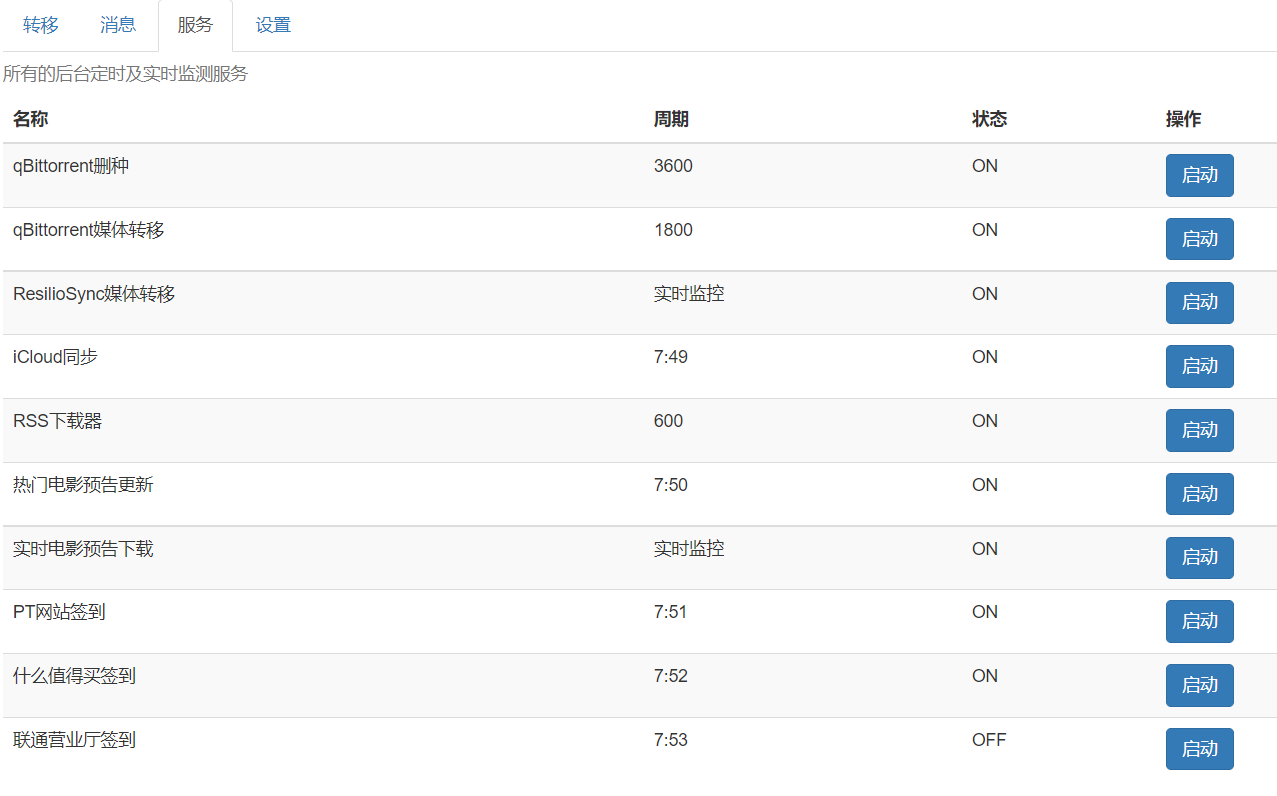
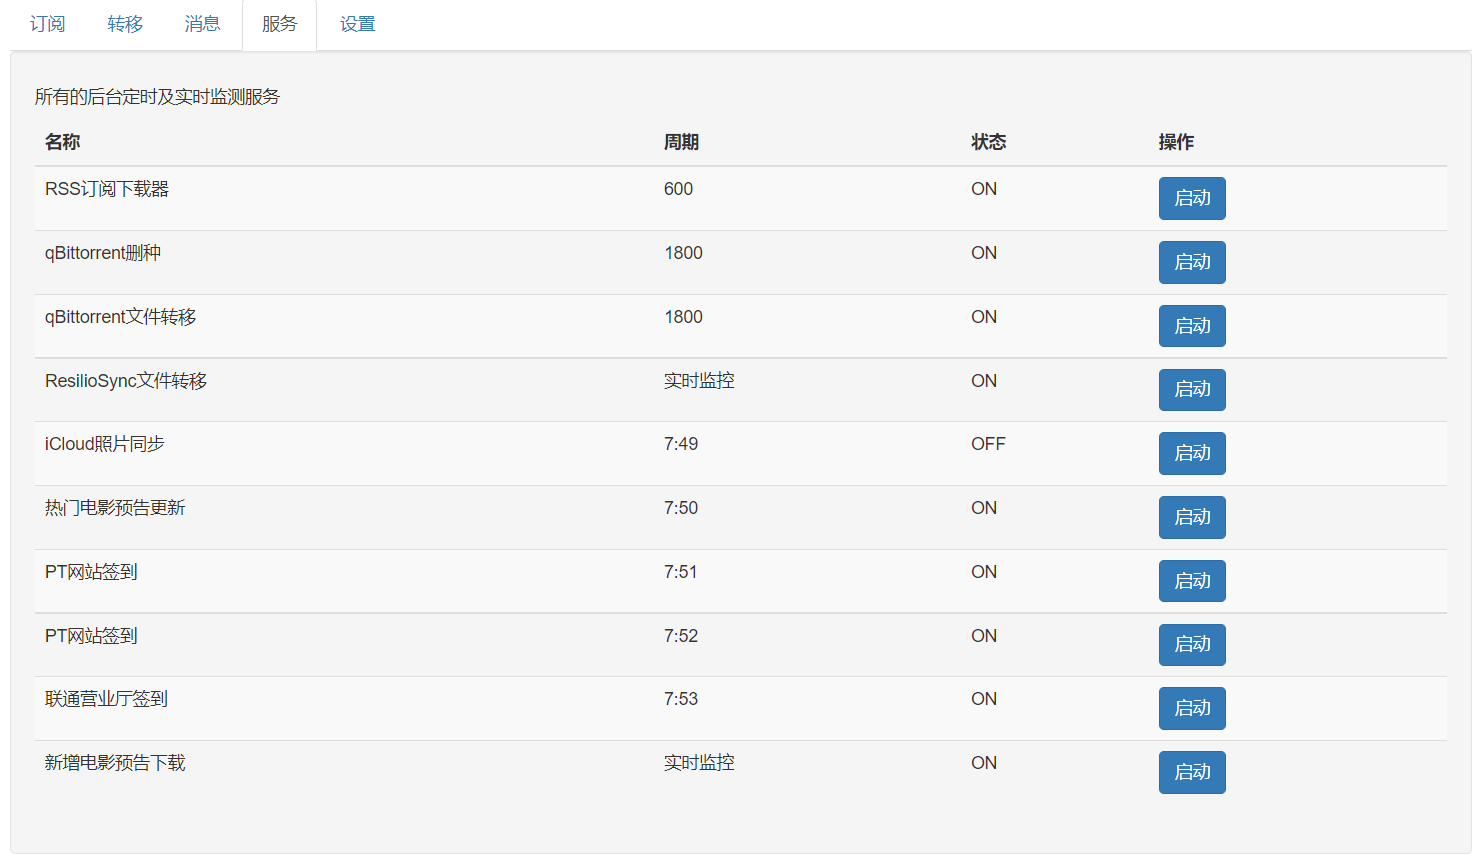
bug fix

diff --git a/web/templates/main.html b/web/templates/main.html
@@ -23,6 +23,7 @@
 			<div class="span4">
 				<div class="tabbable">
 					<ul class="nav nav-tabs">
+						<li {% if page=="rss" %} class="active" {% endif %}><a id="rss_tab" href="#rss" data-toggle="tab">订阅</a></li>
 						<li {% if page=="rmt" %} class="active" {% endif %}><a id="rmt_tab" href="#rmt" data-toggle="tab">转移</a></li>
 						<li {% if page=="msg" %} class="active" {% endif %}><a id="msg_tab" href="#msg" data-toggle="tab">消息</a></li>
 						<li {% if page=="sch" %} class="active" {% endif %}><a id="sch_tab" href="#sch" data-toggle="tab">服务</a></li>
@@ -34,7 +35,7 @@
 					<div class="tab-content">
 						<div class="tab-pane {% if page=='rmt' %} active {% endif %}" id="rmt">
 							<form role="form" action="/do" method="post" id="rmt_form" class="well">
-							  <h4>转移qBittorrent下载完成的文件到媒体库</h4>
+							  <h5>自动转移识别失败时，指定媒体信息，手动转移qBittorrent下载完成的文件到媒体库</h5>
 							  <div class="form-group">
 								<label for="rmt_name">标题</label>
 								<input type="text" class="form-control" id="rmt_name" name="rmt_name" placeholder="" value="">
@@ -66,9 +67,42 @@
 							</form>
 							<pre id="rmt_ret" style="display:none"></pre>
 						</div>
+						<div class="tab-pane {% if page=='rss' %} active {% endif %}" id="rss">
+							<form role="form" action="/do" method="post" id="rss_form" class="form-horizontal">
+							  <h5>配置PT站RSS订阅源过滤关键字，自动下载命中关键字的资源，注意要符合数组格式</h5>
+								{% for rss_cfg in rss_cfg_list %}
+								<fieldset>
+									<legend>{{ rss_cfg.job }}</legend>
+								   <div class="form-group">
+									  <label class="col-sm-2 control-label" for="rss_url@{{ rss_cfg.job }}">RSS URL</label>
+									  <div class="col-sm-4">
+										 <input class="form-control" id="rss_url@{{ rss_cfg.job }}" name="rss_url" type="text" placeholder="" value="{{ rss_cfg.url }}"/>
+									  </div>
+									  <label class="col-sm-2 control-label" for="rss_movie_type@{{ rss_cfg.job }}">电影分类名</label>
+									  <div class="col-sm-4">
+										 <input class="form-control" id="rss_movie_type@{{ rss_cfg.job }}" name="movie_type" type="text" placeholder="" value="{{ rss_cfg.movie_type }}"/>
+									  </div>
+								   </div>
+								   <div class="form-group">
+									  <label class="col-sm-2 control-label" for="rss_movie_re@{{ rss_cfg.job }}">电影关键字</label>
+									  <div class="col-sm-4">
+										 <input class="form-control" id="rss_movie_re@{{ rss_cfg.job }}" name="movie_re" type="text" placeholder="" value="{{ rss_cfg.movie_re }}"/>
+									  </div>
+									  <label class="col-sm-2 control-label" for="rss_tv_re@{{ rss_cfg.job }}">电视剧关键字</label>
+									  <div class="col-sm-4">
+										 <input class="form-control" id="rss_tv_re@{{ rss_cfg.job }}" name="tv_re" type="text" placeholder="" value="{{ rss_cfg.tv_re }}"/>
+									  </div>
+								   </div>
+								</fieldset>
+  								{% endfor %}
+							  <div style="text-align:center"><button id="rss_btn" type="button" class="btn btn-primary">保存</button></div>
+							</form>
+							<br/>
+							<br/>
+						</div>
 						<div class="tab-pane {% if page=='msg' %} active {% endif %}" id="msg">
 							<form role="form" action="/do" method="post" id="msg_form" class="well">
-							  <h4>消息发送工具</h4>
+							  <h5>消息发送工具</h5>
 							  <div class="form-group">
 								<label for="msg_title">消息标题</label>
 								<input type="text" class="form-control" id="msg_title" name="msg_title" placeholder="必填，最长100字节" value="">
@@ -84,7 +118,7 @@
 						</div>
 						<div class="tab-pane {% if page=='set' %} active {% endif %}" id="set">
 							<form role="form" action="/do" method="post" id="set_form" class="well">
-								<h4>配置文件</h4>
+								<h5>配置文件，可直接修改保存</h5>
 								<div class="form-group">
 									<div id="editor"></div>
 								</div>
@@ -92,8 +126,9 @@
 							</form>
 						</div>
 						<div class="tab-pane {% if page=='sch' %} active {% endif %}" id="sch">
+							<form role="form" action="" method="post" id="svr_form" class="well">
+							<h5>所有的后台定时及实时监测服务</h5>
 							<table class="table table-striped">
-							  <caption>所有的后台定时及实时监测服务</caption>
 							  <thead>
 								<tr>
 								  	<th>名称</th>
@@ -103,69 +138,18 @@
 								</tr>
 							  </thead>
 							  <tbody>
+							  {% for scheduler_cfg in scheduler_cfg_list %}
 								<tr>
-								  	<td>qBittorrent删种</td>
-								  	<td>{{ tim_autoremovetorrents }}</td>
-									<td>{{ sta_autoremovetorrents }}</td>
+								  	<td>{{ scheduler_cfg.name }}</td>
+								  	<td>{{ scheduler_cfg.time }}</td>
+									<td>{{ scheduler_cfg.state }}</td>
 								  	<td><button id="sch_btn_autoremovetorrents" type="button" class="sch_action_btn btn btn-primary">启动</button></td>
 								</tr>
-								<tr>
-								  	<td>qBittorrent媒体转移</td>
-								  	<td>{{ tim_qbtransfer }}</td>
-									<td>{{ sta_qbtransfer }}</td>
-								  	<td><button id="sch_btn_qbtransfer" type="button" class="sch_action_btn btn btn-primary">启动</button></td>
-								</tr>
-							  	<tr>
-								  	<td>ResilioSync媒体转移</td>
-								  	<td>实时监控</td>
-									<td>{{ sta_resiliosync }}</td>
-								  	<td><button id="sch_btn_resiliosync" type="button" class="sch_action_btn btn btn-primary">启动</button></td>
-								</tr>
-								<tr>
-								  	<td>iCloud同步</td>
-								  	<td>{{ tim_icloudpd }}</td>
-									<td>{{ sta_icloudpd }}</td>
-								  	<td><button id="sch_btn_icloudpd" type="button" class="sch_action_btn btn btn-primary">启动</button></td>
-								</tr>
-								<tr>
-								  	<td>RSS下载器</td>
-								  	<td>{{ tim_rssdownload }}</td>
-									<td>{{ sta_rssdownload }}</td>
-								  	<td><button id="sch_btn_rssdownload" type="button" class="sch_action_btn btn btn-primary">启动</button></td>
-								</tr>
-							  	<tr>
-								  	<td>热门电影预告更新</td>
-								  	<td>{{ tim_hottrailers }}</td>
-									<td>{{ sta_hottrailers }}</td>
-								  	<td><button id="sch_btn_hottrailers" type="button" class="sch_action_btn btn btn-primary">启动</button></td>
-								</tr>
-								<tr>
-								  	<td>实时电影预告下载</td>
-								  	<td>实时监控</td>
-									<td>{{ sta_movietrailer }}</td>
-								  	<td><button id="sch_btn_movietrailer" type="button" class="sch_action_btn btn btn-primary">启动</button></td>
-								</tr>
-							  	<tr>
-								  	<td>PT网站签到</td>
-								  	<td>{{ tim_ptsignin }}</td>
-									<td>{{ sta_ptsignin }}</td>
-								  	<td><button id="sch_btn_ptsignin" type="button" class="sch_action_btn btn btn-primary">启动</button></td>
-								</tr>
-							  	<tr>
-								 	<td>什么值得买签到</td>
-								 	<td>{{ tim_smzdmsignin }}</td>
-									<td>{{ sta_smzdmsignin }}</td>
-								 	<td><button id="sch_btn_smzdmsignin" type="button" class="sch_action_btn btn btn-primary">启动</button></td>
-								</tr>
-							  	<tr>
-								  	<td>联通营业厅签到</td>
-								  	<td>{{ tim_unicomsignin }}</td>
-									<td>{{ sta_unicomsignin }}</td>
-								  	<td><button id="sch_btn_unicomsignin" type="button" class="sch_action_btn btn btn-primary">启动</button></td>
-								</tr>
+							  {% endfor %}
 							  </tbody>
 							</table>
 							<pre id="sch_ret" style="display:none"></pre>
+							</form>
 						</div>
 						<div class="tab-pane {% if page=='log' %} active {% endif %}" id="log">
 							<table id="log_table" class="table table-striped">

diff --git a/web/static/js/util.js b/web/static/js/util.js
@@ -109,12 +109,29 @@ $(document).ready(function(){
 	    $("#msg_btn").text("正在处理...");
 	    $("#msg_btn").attr("disabled", "true");
 	    ajax_post(cmd, data, function(ret){
-	        msg_code = ret.msg_code;
 	        msg_msg = ret.msg_msg;
 	        $("#msg_ret").show();
-	        $("#msg_ret").text("{\"msg_code\": " + msg_code + ", \"msg_msg\": " + msg_msg + "}");
+	        $("#msg_ret").text(msg_msg);
 	        $("#msg_btn").removeAttr("disabled");
 	        $("#msg_btn").text("发送");
+	    });
+	});
+
+	// 保存RSS按钮
+	$("#rss_btn").click(function(){
+	    var cmd = "rss";
+	    var job_str = ""
+	    var data = {
+                "job": job_str,
+                ""
+	        };
+	    $("#rss_btn").text("正在处理...");
+	    $("#rss_btn").attr("disabled", "true");
+	    ajax_post(cmd, data, function(ret){
+	        $("#form_rss_form_notice").show();
+	        $("#form_rss_form_notice").text(ret.msg_msg);
+	        $("#rss_btn").removeAttr("disabled");
+	        $("#rss_btn").text("保存");
 	    });
 	});
 

diff --git a/web/main.py b/web/main.py
@@ -81,49 +81,62 @@ def create_app():
     @auth.login_required
     def main():
         # 读取定时服务配置
-        tim_autoremovetorrents = settings.get("scheduler.autoremovetorrents_interval")
-        sta_autoremovetorrents = settings.get("scheduler.autoremovetorrents_flag")
-        tim_qbtransfer = settings.get("scheduler.qbtransfer_interval")
-        sta_qbtransfer = settings.get("scheduler.qbtransfer_flag")
-        tim_icloudpd = settings.get("scheduler.icloudpd_cron")
-        sta_icloudpd = settings.get("scheduler.icloudpd_flag")
-        tim_hottrailers = settings.get("scheduler.hottrailer_cron")
-        sta_hottrailers = settings.get("scheduler.hottrailer_flag")
-        tim_ptsignin = settings.get("scheduler.ptsignin_cron")
-        sta_ptsignin = settings.get("scheduler.ptsignin_flag")
-        tim_smzdmsignin = settings.get("scheduler.smzdmsignin_cron")
-        sta_smzdmsignin = settings.get("scheduler.smzdmsignin_flag")
-        tim_unicomsignin = settings.get("scheduler.unicomsignin_cron")
-        sta_unicomsignin = settings.get("scheduler.unicomsignin_flag")
-        sta_movietrailer = settings.get("monitor.movie_flag")
-        sta_resiliosync = settings.get("monitor.resiliosync_flag")
+        scheduler_cfg_list = []
         tim_rssdownload = settings.get("scheduler.rssdownload_interval")
         sta_rssdownload = settings.get("scheduler.rssdownload_flag")
+        scheduler_cfg_list.append({'name': 'RSS订阅下载器', 'time': tim_rssdownload, 'state': sta_rssdownload})
+        tim_autoremovetorrents = settings.get("scheduler.autoremovetorrents_interval")
+        sta_autoremovetorrents = settings.get("scheduler.autoremovetorrents_flag")
+        scheduler_cfg_list.append({'name': 'qBittorrent删种', 'time': tim_autoremovetorrents, 'state': sta_autoremovetorrents})
+        tim_qbtransfer = settings.get("scheduler.qbtransfer_interval")
+        sta_qbtransfer = settings.get("scheduler.qbtransfer_flag")
+        scheduler_cfg_list.append({'name': 'qBittorrent文件转移	', 'time': tim_qbtransfer, 'state': sta_qbtransfer})
+        sta_resiliosync = settings.get("monitor.resiliosync_flag")
+        scheduler_cfg_list.append({'name': 'ResilioSync文件转移', 'time': '实时监控', 'state': sta_resiliosync})
+        tim_icloudpd = settings.get("scheduler.icloudpd_cron")
+        sta_icloudpd = settings.get("scheduler.icloudpd_flag")
+        scheduler_cfg_list.append({'name': 'iCloud照片同步', 'time': tim_icloudpd, 'state': sta_icloudpd})
+        tim_hottrailers = settings.get("scheduler.hottrailer_cron")
+        sta_hottrailers = settings.get("scheduler.hottrailer_flag")
+        scheduler_cfg_list.append({'name': '热门电影预告更新', 'time': tim_hottrailers, 'state': sta_hottrailers})
+        tim_ptsignin = settings.get("scheduler.ptsignin_cron")
+        sta_ptsignin = settings.get("scheduler.ptsignin_flag")
+        scheduler_cfg_list.append({'name': 'PT网站签到', 'time': tim_ptsignin, 'state': sta_ptsignin})
+        tim_smzdmsignin = settings.get("scheduler.smzdmsignin_cron")
+        sta_smzdmsignin = settings.get("scheduler.smzdmsignin_flag")
+        scheduler_cfg_list.append({'name': 'PT网站签到', 'time': tim_smzdmsignin, 'state': sta_smzdmsignin})
+        tim_unicomsignin = settings.get("scheduler.unicomsignin_cron")
+        sta_unicomsignin = settings.get("scheduler.unicomsignin_flag")
+        scheduler_cfg_list.append({'name': '联通营业厅签到', 'time': tim_unicomsignin, 'state': sta_unicomsignin})
+        sta_movietrailer = settings.get("monitor.movie_flag")
+        scheduler_cfg_list.append({'name': '新增电影预告下载', 'time': '实时监控', 'state': sta_movietrailer})
 
         # 读取日志配置
         logtype = settings.get("root.logtype")
 
+        # 读取RSS配置
+        # 读取配置
+        rss_cfg_list = []
+        rss_jobs = eval(settings.get("rss.rss_job"))
+        for rss_job in rss_jobs:
+            # 读取子配置
+            job_cfg = {'job': rss_job}
+            rssurl = settings.get("rss." + rss_job + "_rssurl")
+            job_cfg['url'] = rssurl
+            movie_type = eval(settings.get("rss." + rss_job + "_movie_type"))
+            job_cfg['movie_type'] = movie_type
+            movie_res = eval(settings.get("rss." + rss_job + "_movie_re"))
+            job_cfg['movie_re'] = movie_res
+            tv_res = eval(settings.get("rss." + rss_job + "_tv_re"))
+            job_cfg['tv_re'] = tv_res
+            # 存入配置列表
+            rss_cfg_list.append(job_cfg)
+
         return render_template("main.html",
-                               page="rmt",
-                               tim_autoremovetorrents=tim_autoremovetorrents,
-                               sta_autoremovetorrents=sta_autoremovetorrents,
-                               tim_qbtransfer=tim_qbtransfer,
-                               sta_qbtransfer=sta_qbtransfer,
-                               tim_icloudpd=tim_icloudpd,
-                               sta_icloudpd=sta_icloudpd,
-                               tim_hottrailers=tim_hottrailers,
-                               sta_hottrailers=sta_hottrailers,
-                               tim_ptsignin=tim_ptsignin,
-                               sta_ptsignin=sta_ptsignin,
-                               tim_smzdmsignin=tim_smzdmsignin,
-                               sta_smzdmsignin=sta_smzdmsignin,
-                               tim_unicomsignin=tim_unicomsignin,
-                               sta_unicomsignin=sta_unicomsignin,
-                               sta_movietrailer=sta_movietrailer,
-                               sta_resiliosync=sta_resiliosync,
-                               tim_rssdownload=tim_rssdownload,
-                               sta_rssdownload=sta_rssdownload,
-                               log_type=logtype
+                               page="rss",
+                               log_type=logtype,
+                               scheduler_cfg_list=scheduler_cfg_list,
+                               rss_cfg_list=rss_cfg_list
                                )
 
     # 事件响应

diff --git a/web/run.py b/web/run.py
@@ -16,7 +16,7 @@ def run_webhook():
 
         @atexit.register
         def atexit_fun():
-            app.stop()
+            pass
 
         def signal_fun(signum, frame):
             log.info("【RUN】webhook捕捉到信号：" + str(signum) + "，开始退出...")
